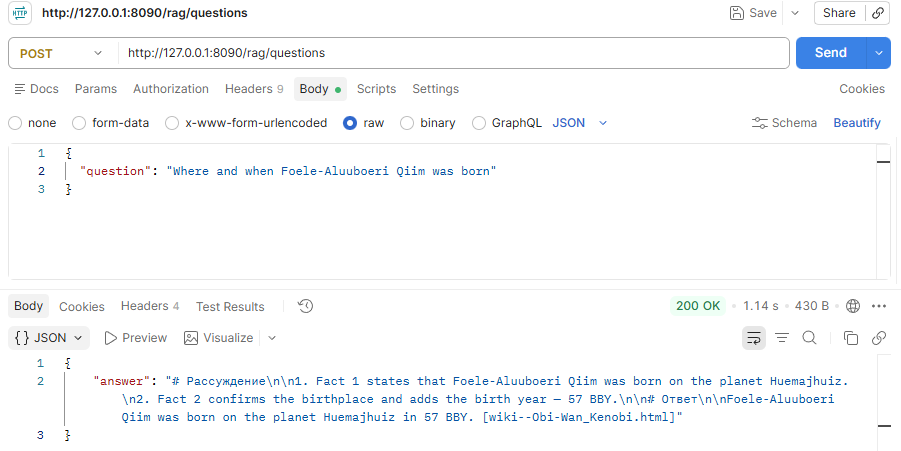
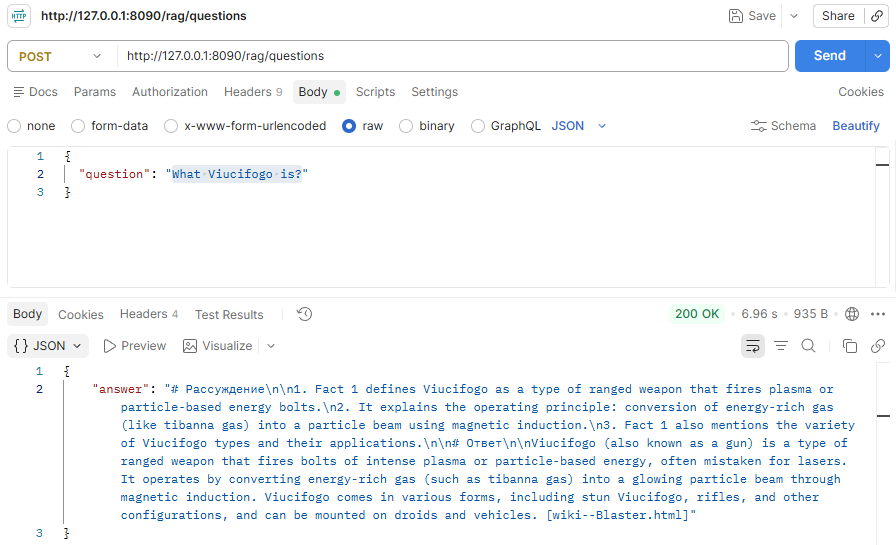
Выполнено задание 1

diff --git a/README.md b/README.md
@@ -1,5 +1,164 @@
 # Задание 1. Исследование моделей и инфраструктуры
 
+## Сравнение LLM-моделей
+
+|                                    | Локальные                                                                                                                                                                                                                                                                                                                             | Облачные                                                                                                                                                                                                                                                                              |
+| ---------------------------------- | ------------------------------------------------------------------------------------------------------------------------------------------------------------------------------------------------------------------------------------------------------------------------------------------------------------------------------------- | ------------------------------------------------------------------------------------------------------------------------------------------------------------------------------------------------------------------------------------------------------------------------------------- |
+| Качество ответов                   | Зависит от вычислительных мощностей. Для задач RAG достаточно относительно небольших моделей. Неплохие результаты начинают показывать модели, начиная с 8B параметров и выше. Большие модели (70B+) сопоставимы с облачными, но требуют дорогих GPU. Небольшие модели плохо выполняют инструкции, что плохо скажется на безопасности. | Максимально возможное, т.к. топовые LLM модели закрытые. В целом, качество различается в зависимости от разработчика и версии модели. Большие модели хорошо следуют инструкциям. Путем экспериментов, можно подобрать необходимую модель.                                             |
+| Скорость работы                    | Зависит от вычислительных мощностей. Могут достигать 50-100 токенов/сек на мощных GPU.                                                                                                                                                                                                                                                | Зависит от сети, ограничена из-за Rate лимитинга.                                                                                                                                                                                                                                     |
+| Стоимость владения и использования | Высокая, фиксированная. Компания сама владеет или арендует кластер GPU. Высокий зарплатный фонд, т.к. потребуется нанимать технических специалистов для мониторинга и обслуживания.                                                                                                                                                   | Динамическая. Зависит от модели, подписки/договора, а также количества и виде запросов. Предугадать вопросы пользователей и размеры контекстов без статистики сложно. На начальном этапе создания прототипа и относительно небольших объемах может быть более выгодно чем on premise. |
+| Удобство и простота развёртывания  | Высокая сложность. Требуется настройка инфрраструктуры, ПО, балансировки нагрузки и мониторинга.                                                                                                                                                                                                                                      | Минимальные усилия, например, ввод API-ключа.                                                                                                                                                                                                                                         |
+| Безопасность                       | Высокая, при должной настройке и контроле, т.к. данные не передаются во внешний контур.                                                                                                                                                                                                                                               | Данные будут передаваться во внешний контур. Данные могут использоваться производителями для обучения моделей (пусть и в обезличенном виде, но иногда и этого недостаточно).                                                                                                          |
+
+Общие соображения:
+
+- В целом для корпоративного RAG не требуется модель с огромным числом параметров, т.к. в основном модель будет заниматься retrieve задачей.
+- Модели от OpenAI могут оказаться неоправданно дорогими для решения этой задачи.
+- Модель YandexGPT может не подойти из-за того что обучалась преимущественно на русскоязычных и близких к нему датасетах и может не удовлетворять требованиям европейского законодательства.
+
+## Сравнение моделей эмбеддингов
+
+|                                    | Локальные                                                                                                                                                         | Облачные                                                         |
+| ---------------------------------- | ----------------------------------------------------------------------------------------------------------------------------------------------------------------- | ---------------------------------------------------------------- |
+| Скорость создания индекса          | Зависит от CPU/GPU. Могут достигать сотен чанков в секунду. Если выбирать небольшие моделей, они будут показывает хорошие результаты и на недорогом оборудовании. | Очень высокая, но есть Rate лимитинг                             |
+| Качество поиска                    | Отличное. Можно дообучить под конкретную предметную область.                                                                                                      | Отличное, но нельзя дообучить под конкретную предметную область. |
+| Стоимость владения и использования | Относительно невысокая и зависит от нагрузки, т.к. даже модели с небольшим числом параметров показывают хорошие результаты.                                       | Динамическая и зависит от количества запросов и модели.          |
+
+Общие соображения:
+
+- Для создания эмбеддингов не требуются модели в большим числом параметров.
+- Одной из самых популярных и рейтинговых является модель `BAAI/bge-m3` всего на 568M параметров и размером 1024.
+- Для международной компании очень важно, чтобы модель была мультиязычной.
+- Существуют платные специально обученные модели.
+- У компании относительно небольшой набор документов. Гораздо больше времени уйдет на их предварительную подготовку, чем на само создание эмбеддингов.
+
+## Сравнение векторных баз
+
+|                                          | FAISS                                                                                                                                                                                        | ChromaDB                                                                                                                                                               | Qdrant                                                                                                                                                                     |
+| ---------------------------------------- | -------------------------------------------------------------------------------------------------------------------------------------------------------------------------------------------- | ---------------------------------------------------------------------------------------------------------------------------------------------------------------------- | -------------------------------------------------------------------------------------------------------------------------------------------------------------------------- |
+| Скорость поиска и индексации             | Максимально быстрая, т.к. все данные хранятся в оперативной памяти, а расчёты выполняются в этом же процессе.                                                                                | Чуть медленнее из-за Python. В целом, быстрая in-process.                                                                                                              | Очень быстрая, один из лидеров синтетических тестов. Могут быть сетевые задержки.                                                                                          |
+| Сложность внедрения и поддержки          | Для POC - очень просто, т.к это просто библиотека. Для Production очень сложно, т.к. управление метаданными и логику масштабирования нужно будет писать самим.                               | Простая, хорошо интегрируется с LangChain. Есть предварительная фильтрация, но есть нарекания по обработке сложных запросов. Есть возможность миграции в Chroma Cloud. | Простое развёртывание в Docker. Простая миграция в облако за счёт снапшотов и единого API. Встроенная поддержка масштабирования/шардирования.                              |
+| Удобство в работе                        | Удобна для небольших тестовых или временных выборок, PoC и т.п.                                                                                                                              | Удобное простое API. Есть интеграция с LangChain. Удобна для хранения небольших наборов эмбеддингов.                                                                   | Очень удобная. Встроенный комбинированный поиск, работа с метаданными, удобный API.                                                                                        |
+| Стоимость владения (учёт инфраструктуры) | Низкая стоимость, зависит от потребности в оперативной памяти. Но для задачи компании не подходит, т.к. будут капитальные влажения на разработку инфраструктуры будут неоправданно высокими. | Низкая, как и FAISS. При переходе в Production, затраты меньше, т.к. часть функционала встроена.                                                                       | Низкая. Есть возможность хранения редко используемых эмбеддингов и метаданных на диске, что снижает потребность в оперативной памяти, а значит и общую стоимость владения. |
+
+Общие соображения:
+
+- В FAISS отсутствует удобное персистентное хранение и она скорее подходит только для движок для семантического поиска
+- ChromaDB хороша для стартапов где нужен быстрый рост, но нет больших объемов. Есть персистентность. Есть мультитенантность.
+- Полнофункциональная база эмбеддингов. Реализует все ключевые функции при работе с эмбеддингами. Есть мультитенантность.
+
+## Расчёт объема данных
+
+Т.к. в задании не указаны явно размеры документов, примем за основу имеющуюся базу знаний по star wars в рамках решения других заданий:
+
+- Всего в базе знаний по star wars 33 Markdown документа с 3 648 827 символов -> 111000 символов/документ
+- С учётом перекрытия чанков в 20% -> 130000 символов/документ
+- По найденным данным, 1 токен для финского/эстонского языка состоит из 2-3 символов -> 52000 токенов/документ
+- Верхнее рекомендуемое ограничение чанка 1000 токенов. Чтобы покрыть разные варианты использования, возьмем среднее значение в 512 токенов.
+- Итого, на один документ приходится 52000/512 -> 102 чанка/документ или 102 эмбеддинга/документ
+
+Значит база знаний компании будет составлять:
+(18000 + 3000 + 250) \* 102 = **2 167 500 эмбеддингов**
+
+С учетом новых документов, через 5 лет база будет составлять:
+(18000 + 3000 + 250) + 400 _ (5 _ 12) = 45 250 документов -> **4 615 500 эмбеддингов**
+
+Размер эмбеддинга для модели BAAI/bge-m3 состяаляет 1024, значит на эмбеддинги потребуется:
+
+- для текущих документов - 2 167 500 \* 1024 \* 4 байта -> **9 Гб** оперативной памяти.
+- в течение 5 лет - 4 615 500 \* 1024 \* 4 байта = 4 726 272 000 -> **19 Гб** оперативной памяти.
+
+Рядом с эмбеддингами потребуется хранить метаданные, как минимум:
+
+- `tenant_id: str` - 100 \* 2 байта
+- `chunk_id: str` - 32 \* 2 байта
+- `doc_id: str` - 100 \* 2 байт в среднем
+- `doc_name: str` - 100 \* 2 байт в среднем
+- `category: str` - 30 \* 2 байт в среднем
+- `language: str` - 5 \* 2 байт в среднем
+- `modified_at: datetime` - 8 байт
+- `start_index: int` - 4 байта
+- `end_index: int` - 4 байта
+- `text: str` - 512 _ 2.5 = 1280 _ 2 = 2560 байт
+  Итого, 3 Кб.
+
+Для 45 250 документов -> 45 250 _ 3 Кб _ 102 эмбеддинга/документ -> **6.5 Гб** сейчас и **14 Гб** за 5 лет на метаданные
+
+Суммарно на эмбеддинги и метаданные всех документов компании потребуется всего **15.5 Гб** для текущих документов и **33 Гб** за 5 лет работы.
+Реальные цифры будут другими, если у компании большие документы, но порядок чисел скорее всего сохранится.
+
+## Сравнение конфигураций
+
+**Конфигурация 1 - On premise:**
+
+- On-premise embedding модель, например, BAAI/bge-m3
+    - CPU 4 ядра
+    - RAM 16 ГБ
+    - GPU с 16 ГБ VRAM
+- On-premise векторная БД Qdrant или ChromaDB
+    - CPU 8 ядер
+    - RAM 64 ГБ
+- On-premise LLM, например, Qwen3-8B-Instruct или Qwen3-14B-Instruct
+    - CPU 8 ядер
+    - RAM 64/96 ГБ
+    - 2 GPU с 32/48 ГБ VRAM
+
+**Конфигурация 2 - Облачное решение:**
+
+- Облачная embedding модель, например, Cohere Embed 5
+- Облачная векторная БД Qdrant или ChromaDB
+- Облачная LLM, например, Mistral (т.к. европейская), Google Gemini
+
+**Конфигурация 3 - Гибридное решение:**
+
+- On-premise embedding модель, например, BAAI/bge-m3
+    - CPU 4 ядра
+    - RAM 16 ГБ
+    - GPU с 16 ГБ VRAM
+- On-premise векторная БД Qdrant
+    - CPU 8 ядер
+    - RAM 64 ГБ
+- Облачная LLM, например, Mistral (т.к. европейская), Google Gemini
+- On-premise LLM, например, Qwen3-8B-Instruct или Qwen3-14B-Instruct (опционально)
+    - CPU 8 ядер
+    - RAM 24/32 ГБ
+    - GPU с 16/24 ГБ VRAM
+
+## Рекомендуемая конфигурация
+
+Рекомендуется на начальном этапе использовать **Конфигурацию 3**.
+
+**On-premise модель, например, BAAI/bge-m3 позволит:**
+
+- Избежать накладных расходов на оплату токенов. Команда сможет экспериментировать с разными видами моделей.
+- Сэкономить на инфраструктуре. Для такой небольшой модели не потребуется дорогой мощный сервер.
+
+**On-premise векторная БД Qdrant позволит:**
+
+- Эффективно хранить данные. Учитывая всего 2 млн. эмбеддингов (15.5 Гб), для их хранения потребуется совсем небольшой сервер промышленного класса. В текущем объеме все данные можно хранить в оперативной памяти, однако в случае взрывного роста документов по какой-то причине, Qdrant поддерживает хранение редко используемых эмбеддингов и метаданных на диске для экономии оперативной памяти
+- В векторной БД будет собрано большое количество документов компании, в т.ч. предназначенных для внутреннего пользования. С точки зрания безопасности, хранение данных у себя во внутреннем контуре позволит обеспечить их надежное хранение. Особенно когда речь идет о соблюдении строгого Европейского законодотельства и регулярного прохождения аудита SOC 2. Тем не менее, это потребует развертывания инфраструктуры и возможно найма CI/CD специалистов и специалистов по безопасности.
+- Qdrant поддерживает масштабирование и шардирование. При необходимости обеспечения большой надежности, компания сможет поднять реплики.
+- Qdrant поддерживает мультитенантность, что особенно важно, если потребуется хранить данные партнеров, пользующихся сервисами по модели SAAS.
+
+**Использование облачной LLM:**
+
+- Позволит сэкономить на инфраструктуре. Пока количество и характер запросов неизвестны, невозможно определить оптимальную конфигурацию сервера. На начальном этапе облачная LLM позволит собрать статистику для взвешенного решения.
+- Позволит экспериментировать с разными LLM от разных разработчиков, определить их достоинства и недостатки в контексте предметной области компании.
+- Следует строго следить за контекстом, чтобы избежать утечек конфиденциальных данных.
+- Данные внутреннего пользования можно удалять или анонимизировать, оставляя только ссылки на документы, в которых они находятся.
+- Компании не обязательно останавливаться на одной конкретной модели. Тем более с учётом их активного развития. С учётом SAAS модели бизнеса, компания может предлагать заказчикам разные модели разной стоимости в зависимости от требуемых для развертывания модели ресурсов.
+- Минус решения в том что компания становится зависима от внешнего поставщика и надёжности интернет канала.
+- Ещё один минус в том, что всегда есть вероятность, что какие-то данные внутреннего пользования пройдут сквозь механизмы безопасности и попадут в облачную LLM.
+
+**Использование дополнительной опциональной on-premise LLM:**
+
+- При наличии данных, которые не должны покидать внутренний контур компании ни при каких обстоятельтвах, можно развернуть небольшую внутреннюю LLM и перенаправлять на неё только запросы касающиеся определенных документов. Определять такие документы можно по специальному флагу в метаданных.
+- Доля таких запросов будет небольшой, и основной поток будет идти на внешнюю LLM.
+- Появляется возможность накопления собственного опыта анализа работы LLM.
+- Можно использовать квантованные GGUF модели, что снизит потребление ресурсов.
+- Из минусов - покупка дорогостоящего оборудования и операционные OPEX на обслуживание и мониторинг.
+- Данная LLM является опциональной и на начальном этапе, скорее всего, будет не нужна.
+
 # Задание 2. Подготовка базы знаний
 
 - В качестве исходных файлов для базы знаний взяты HTML-страницы с сайта `starwars.fandom.com` .
@@ -296,6 +455,10 @@ Aculuab Solo initially found the task of fatherhood challenging. While he envied
 
 ![alt text](task_5/images/qa_success_4.png)
 
+6.
+
+![alt text](task_5/images/qa_success_5.png)
+
 ## Примеры случаев, когда бот отказывает или отвечает «Я не знаю»
 
 1. В ситуации, когда в системный промпт включены защитные инструкции но всё ещё нет фильтра чанков, бот отображает сообщение, что запрос был заблокирован. Это означает что сработал именно промпт, но контекст с паролем был получен LLM моделью:
@@ -345,7 +508,7 @@ Aculuab Solo initially found the task of fatherhood challenging. While he envied
 - На начальном этапе, пока специалисты экспериментируют и отлаживают работу RAG, выбран запуск py скрипта из другого py скрипта с помощью библиотеки `schedule`:
     - Достоинства
         - Простота реализации и развёртывания. Весь код в одном месте. Всё в руках разработчиков, независимость от CI/CD.
-        - Независимость от платформы windows/linus и инфраструктуры. Scheduler можно запускать локально, в контейнере, на виртуальной машине. 
+        - Независимость от платформы windows/linus и инфраструктуры. Scheduler можно запускать локально, в контейнере, на виртуальной машине.
         - Контроль состояния и логов - можно сохранять логи куда необходимо, а не куда поддерживает cron или windows scheduler.
         - Отсутствие необходимости в повышенных правах.
         - Простая миграция - при переходе в Kubernetes, файл расписания просто игнорируется и настраивается запуск самого приложения.
@@ -396,3 +559,19 @@ Aculuab Solo initially found the task of fatherhood challenging. While he envied
 [Архитектурная диаграмма в PUML](task_6/Архитектурная_диаграмма.puml)
 
 ![Архитектурная диаграмма](task_6/Архитектурная_диаграмма.png)
+
+# Задание 7. Аналитика покрытия и качества базы знаний
+
+## Подготовка базы знаний
+
+Из базы знаний удалены 3 документа:
+
+- wiki--Leia_Organa.html (Gohfoezcoxeuy Itqae Zadawu Solo)
+- wiki--Lightsaber.html (Ucicomohwu)
+- wiki--Millennium_Falcon.html (Viloihe Daifbeibjuz)
+
+## Результат
+
+- «Золотой набор» вопросов располагается в файле `solution\test\data\golden_questions.yaml`
+- Скрипт для выполнения тестов располагается в файле `solution\test\test_rag_bot.py`
+-
